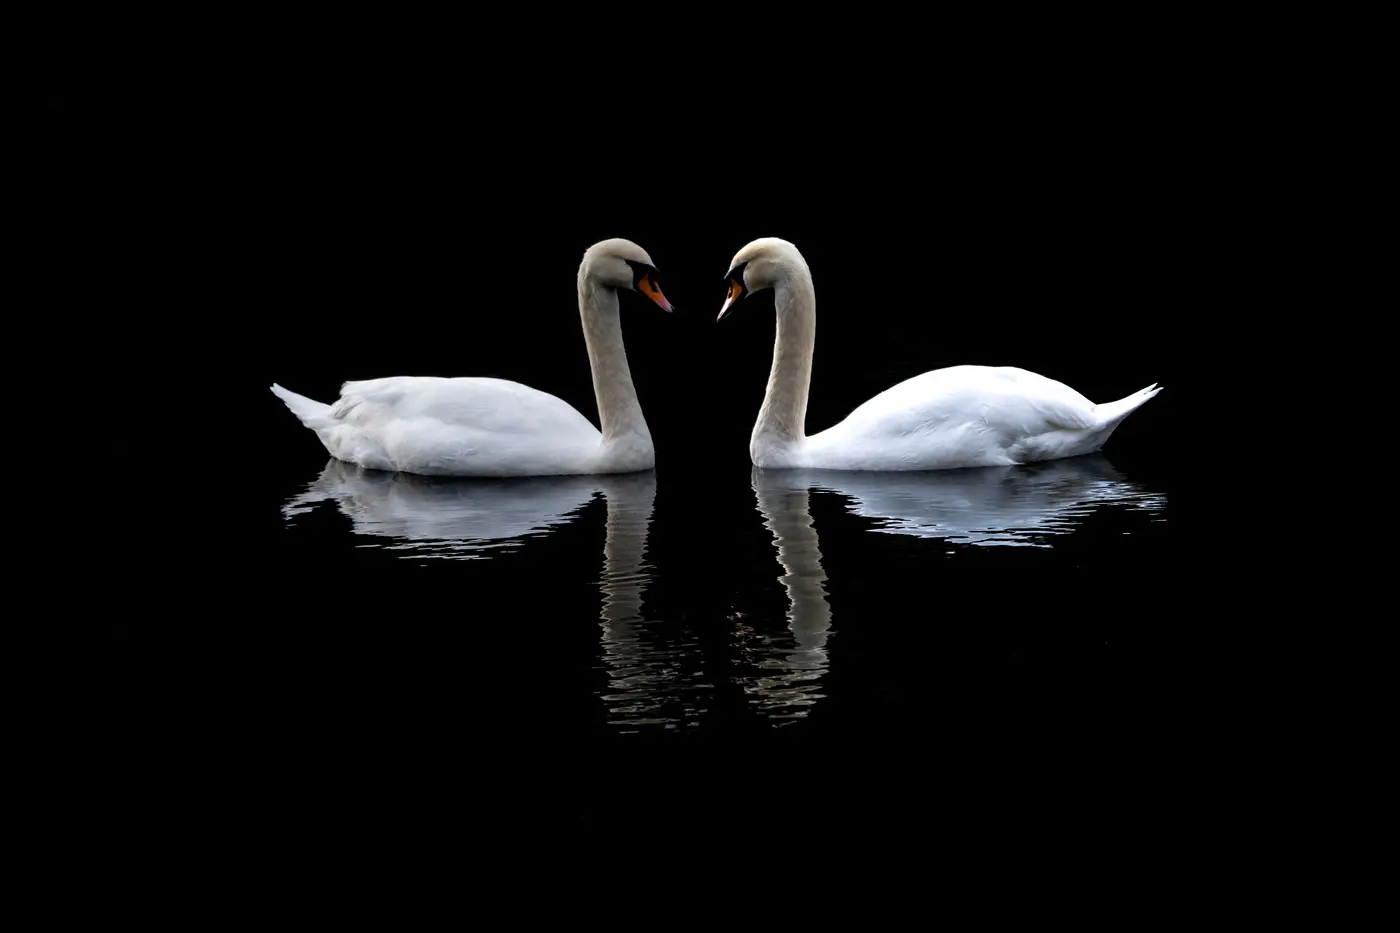
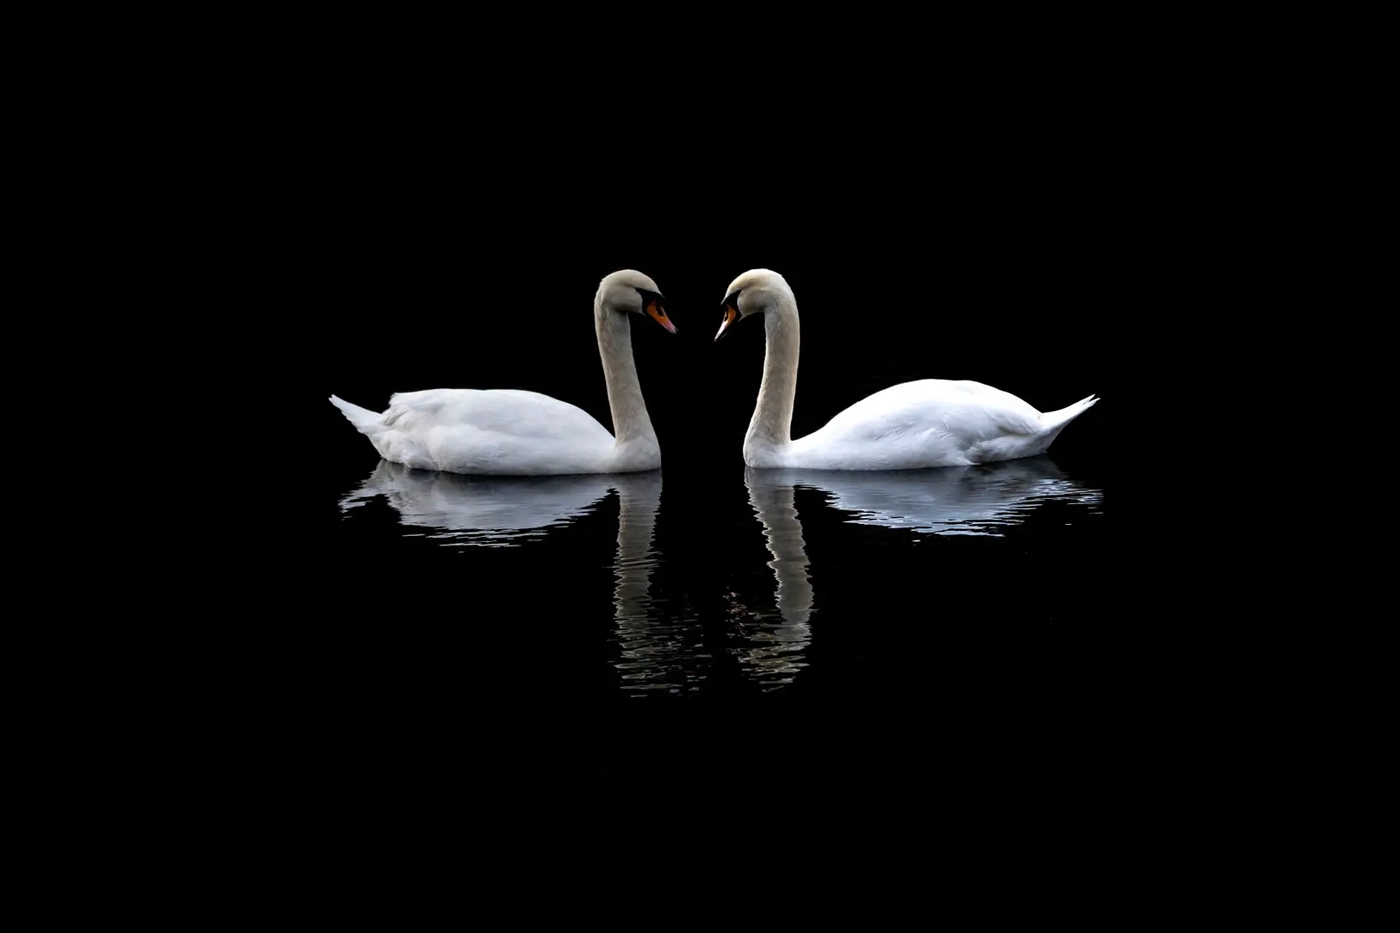
Smaller Swans

Changed region(s): [[0.1843, 0.2487, 0.8293, 0.7771]]

diff --git a/styles.css b/styles.css
@@ -55,22 +55,39 @@ img { display: block; max-width: 100%; }
 .hero-copy { position: absolute; left: clamp(28px,3.5vw,58px); bottom: clamp(78px,11vh,135px); font-size: clamp(13px,1.05vw,17px); line-height: 1.55; }
 .hero-copy p { margin: 0 0 25px; }
 .polaroid-stack { position: absolute; z-index: 4; right: clamp(58px,5.2vw,78px); bottom: clamp(38px,4.8vh,56px); width: clamp(158px,15.75vw,263px); }
-.polaroid { width: 100%; margin: 0; padding: 10px 10px 36px; background: #eeeae2; box-shadow: 0 14px 38px rgba(0,0,0,.42), 0 2px 5px rgba(0,0,0,.25); transition: transform .45s cubic-bezier(.2,.72,.2,1); }
-.polaroid-front { position: relative; z-index: 3; transform: rotate(4.5deg); box-shadow: 0 18px 50px rgba(0,0,0,.55), 0 2px 6px rgba(0,0,0,.28); }
-.tape { position: absolute; z-index: 4; top: -13px; left: 50%; width: 44%; height: 26px; transform: translateX(-50%) rotate(2deg); background: linear-gradient(90deg, rgba(189,174,134,.78), rgba(216,205,170,.88), rgba(184,168,127,.78)); box-shadow: 0 1px 2px rgba(0,0,0,.16); opacity: .9; }
-.polaroid-middle, .polaroid-back { position: absolute; }
-.polaroid-middle { z-index: 2; top: 24%; left: 12%; transform: rotate(9deg); background: #e7e1d7; }
-.polaroid-back { z-index: 1; top: 43%; left: -19%; transform: rotate(-8deg); background: #dcd6cb; }
-.polaroid img { width: 100%; aspect-ratio: 1 / 1.08; object-fit: cover; filter: grayscale(1) contrast(1.08); }
-.polaroid-middle img { object-position: 50% 52%; filter: grayscale(1) brightness(.78) contrast(1.18); }
-.polaroid-back img { object-position: 48% 50%; filter: grayscale(1) brightness(.82) contrast(1.16); }
+.polaroid { width: 100%; margin: 0; padding: 10px 10px 36px; background: #eeeae2; box-shadow: 0 14px 38px rgba(0,0,0,.42), 0 2px 5px rgba(0,0,0,.25); }
+.polaroid-sizer { position: relative; visibility: hidden; box-shadow: none; }
+.polaroid-sizer i { display: block; width: 100%; aspect-ratio: 1 / 1.08; }
+.polaroid img { width: 100%; aspect-ratio: 1 / 1.08; object-fit: cover; }
+
+/* card = one photograph (identity: framing + its own bit of tape) */
+.card { position: absolute; top: 0; left: 0; width: 100%; transition: transform .5s cubic-bezier(.2,.72,.2,1), background-color .5s ease, box-shadow .5s ease; }
+.card img { transition: filter .5s ease; }
+.p-moon img { object-position: 50% 52%; }
+.p-swans img { object-position: 48% 50%; }
+
+/* slot = a position in the pile (depth: z-order, offset, dimming) */
+.slot-1 { z-index: 3; transform: translateY(var(--lift,0)) rotate(4.5deg); background: #eeeae2; box-shadow: 0 18px 50px rgba(0,0,0,.55), 0 2px 6px rgba(0,0,0,.28); }
+.slot-2 { z-index: 2; transform: translate(12%,24%) translateY(var(--lift,0)) rotate(9deg); background: #e7e1d7; }
+.slot-3 { z-index: 1; transform: translate(-19%,43%) translateY(var(--lift,0)) rotate(-8deg); background: #dcd6cb; }
+.slot-1 img { filter: grayscale(1) contrast(1.08); }
+.slot-2 img { filter: grayscale(1) brightness(.84) contrast(1.16); }
+.slot-3 img { filter: grayscale(1) brightness(.72) contrast(1.2); }
+
+.tape { position: absolute; z-index: 4; top: -13px; left: 50%; width: 44%; height: 26px; background: linear-gradient(90deg, rgba(189,174,134,.78), rgba(216,205,170,.88), rgba(184,168,127,.78)); box-shadow: 0 1px 2px rgba(0,0,0,.16); opacity: .9; }
+.p-self .tape { transform: translateX(-50%) rotate(2deg); }
+.p-moon .tape { left: 44%; width: 38%; transform: translateX(-50%) rotate(-3.5deg); }
+.p-swans .tape { left: 57%; width: 41%; transform: translateX(-50%) rotate(4.5deg); }
+
+.card-hit { position: absolute; z-index: 5; inset: 0; padding: 0; border: 0; background: transparent; cursor: pointer; }
+.slot-1 .card-hit { cursor: default; }
+.card-hit:focus-visible { outline: 2px solid var(--rust-soft); outline-offset: 4px; }
+.card:hover { --lift: -7px; }
+.slot-1:hover { --lift: -4px; }
 .polaroid figcaption { position: absolute; right: 11px; bottom: 2px; left: 11px; overflow: hidden; color: #17212b; font-family: "Marker Mark", "Segoe Script", "Bradley Hand", "Brush Script MT", cursive; font-size: clamp(15px, 2vw, 30px); font-synthesis: none; font-weight: 400; letter-spacing: .01em; line-height: 1.1; mix-blend-mode: multiply; opacity: .82; text-align: center; text-rendering: geometricPrecision; white-space: nowrap; }
-.polaroid-front figcaption { transform: rotate(-1deg); }
-.polaroid-middle figcaption { transform: rotate(1.2deg); }
-.polaroid-back figcaption { transform: rotate(-.7deg); }
-.polaroid-stack:hover .polaroid-front { transform: translateY(-4px) rotate(4.5deg); }
-.polaroid-stack:hover .polaroid-middle { transform: translate(5px,5px) rotate(10deg); }
-.polaroid-stack:hover .polaroid-back { transform: translate(-6px,8px) rotate(-9deg); }
+.p-self figcaption { transform: rotate(-1deg); }
+.p-moon figcaption { transform: rotate(1.2deg); }
+.p-swans figcaption { transform: rotate(-.7deg); }
 .scroll-cue { position: absolute; left: 50%; bottom: 30px; display: grid; place-items: center; width: 44px; height: 30px; margin-left: -22px; color: rgba(241,238,231,.62); filter: drop-shadow(0 1px 4px rgba(0,0,0,.6)); transition: color .3s; }
 .scroll-cue svg { width: 22px; height: 12px; }
 .scroll-cue:hover { color: var(--white); }
@@ -167,8 +184,8 @@ footer a { justify-self: end; }
   .hero-copy { bottom: 80px; }
   .polaroid-stack { right: 44px; bottom: 48px; width: clamp(126px,26.25vw,168px); }
   .tape { top: -11px; height: 22px; }
-  .polaroid-middle { top: 22%; left: 10%; }
-  .polaroid-back { top: 40%; left: -15%; }
+  .slot-2 { transform: translate(10%,22%) translateY(var(--lift,0)) rotate(9deg); }
+  .slot-3 { transform: translate(-15%,40%) translateY(var(--lift,0)) rotate(-8deg); }
   .section-heading { grid-template-columns: 1fr; gap: 22px; }
   .music-stage { grid-template-columns: 1fr; }
   .music-copy { min-height: 330px; border-right: 0; border-bottom: 1px solid var(--line-light); }
@@ -186,8 +203,8 @@ footer a { justify-self: end; }
   .polaroid-stack { right: 30px; bottom: 46px; width: 124px; }
   .tape { top: -8px; height: 17px; }
   .polaroid { padding: 7px 7px 26px; }
-  .polaroid-middle { top: 21%; left: 9%; }
-  .polaroid-back { top: 38%; left: -13%; }
+  .slot-2 { transform: translate(9%,21%) translateY(var(--lift,0)) rotate(9deg); }
+  .slot-3 { transform: translate(-13%,38%) translateY(var(--lift,0)) rotate(-8deg); }
   .polaroid figcaption { right: 7px; bottom: 5px; left: 7px; font-size: 12px; }
   .scroll-cue { bottom: 20px; }
   .scroll-cue svg { width: 18px; height: 10px; }

diff --git a/index.html b/index.html
@@ -34,19 +34,28 @@
         <img src="assets/Superluxe2.png" alt="Joe Kiernan — mostly harmless">
       </div>
 
-      <div class="polaroid-stack reveal">
-        <figure class="polaroid polaroid-back" aria-hidden="true">
-          <img src="assets/swans-pair.webp" alt="">
-          <figcaption>Swans</figcaption>
-        </figure>
-        <figure class="polaroid polaroid-middle" aria-hidden="true">
-          <img src="assets/moon-water.webp" alt="">
-          <figcaption>The Moon</figcaption>
-        </figure>
-        <figure class="polaroid polaroid-front">
+      <div class="polaroid-stack reveal" id="polaroid-stack">
+        <div class="polaroid polaroid-sizer" aria-hidden="true"><i></i></div>
+
+        <figure class="polaroid card p-self slot-1">
           <span class="tape" aria-hidden="true"></span>
           <img src="assets/Mesquare.png" alt="Black-and-white portrait of Joe Kiernan">
           <figcaption>Self Portrait</figcaption>
+          <button class="card-hit" type="button"><span class="sr-only">Bring Self Portrait to the front</span></button>
+        </figure>
+
+        <figure class="polaroid card p-moon slot-2">
+          <span class="tape" aria-hidden="true"></span>
+          <img src="assets/moon-water.webp" alt="The moon low over open water">
+          <figcaption>The Moon</figcaption>
+          <button class="card-hit" type="button"><span class="sr-only">Bring The Moon to the front</span></button>
+        </figure>
+
+        <figure class="polaroid card p-swans slot-3">
+          <span class="tape" aria-hidden="true"></span>
+          <img src="assets/swans-pair.webp" alt="A pair of swans on dark water">
+          <figcaption>Swans</figcaption>
+          <button class="card-hit" type="button"><span class="sr-only">Bring Swans to the front</span></button>
         </figure>
       </div>
 

diff --git a/script.js b/script.js
@@ -45,6 +45,26 @@ const sectionObserver = new IntersectionObserver(entries => {
 }, { rootMargin: '-35% 0px -55%' });
 sections.forEach(section => sectionObserver.observe(section));
 
+const stack = $('#polaroid-stack');
+if (stack) {
+  const cards = $$('.card', stack);
+  let order = [...cards];
+
+  const restack = () => order.forEach((card, index) => {
+    card.classList.remove('slot-1', 'slot-2', 'slot-3');
+    card.classList.add(`slot-${index + 1}`);
+    $('.card-hit', card).setAttribute('aria-disabled', String(index === 0));
+  });
+
+  cards.forEach(card => $('.card-hit', card).addEventListener('click', () => {
+    if (order[0] === card) return;
+    order = [card, ...order.filter(other => other !== card)];
+    restack();
+  }));
+
+  restack();
+}
+
 const lightbox = $('#lightbox');
 $$('.photo').forEach(button => button.addEventListener('click', () => {
   const image = $('img', lightbox);
